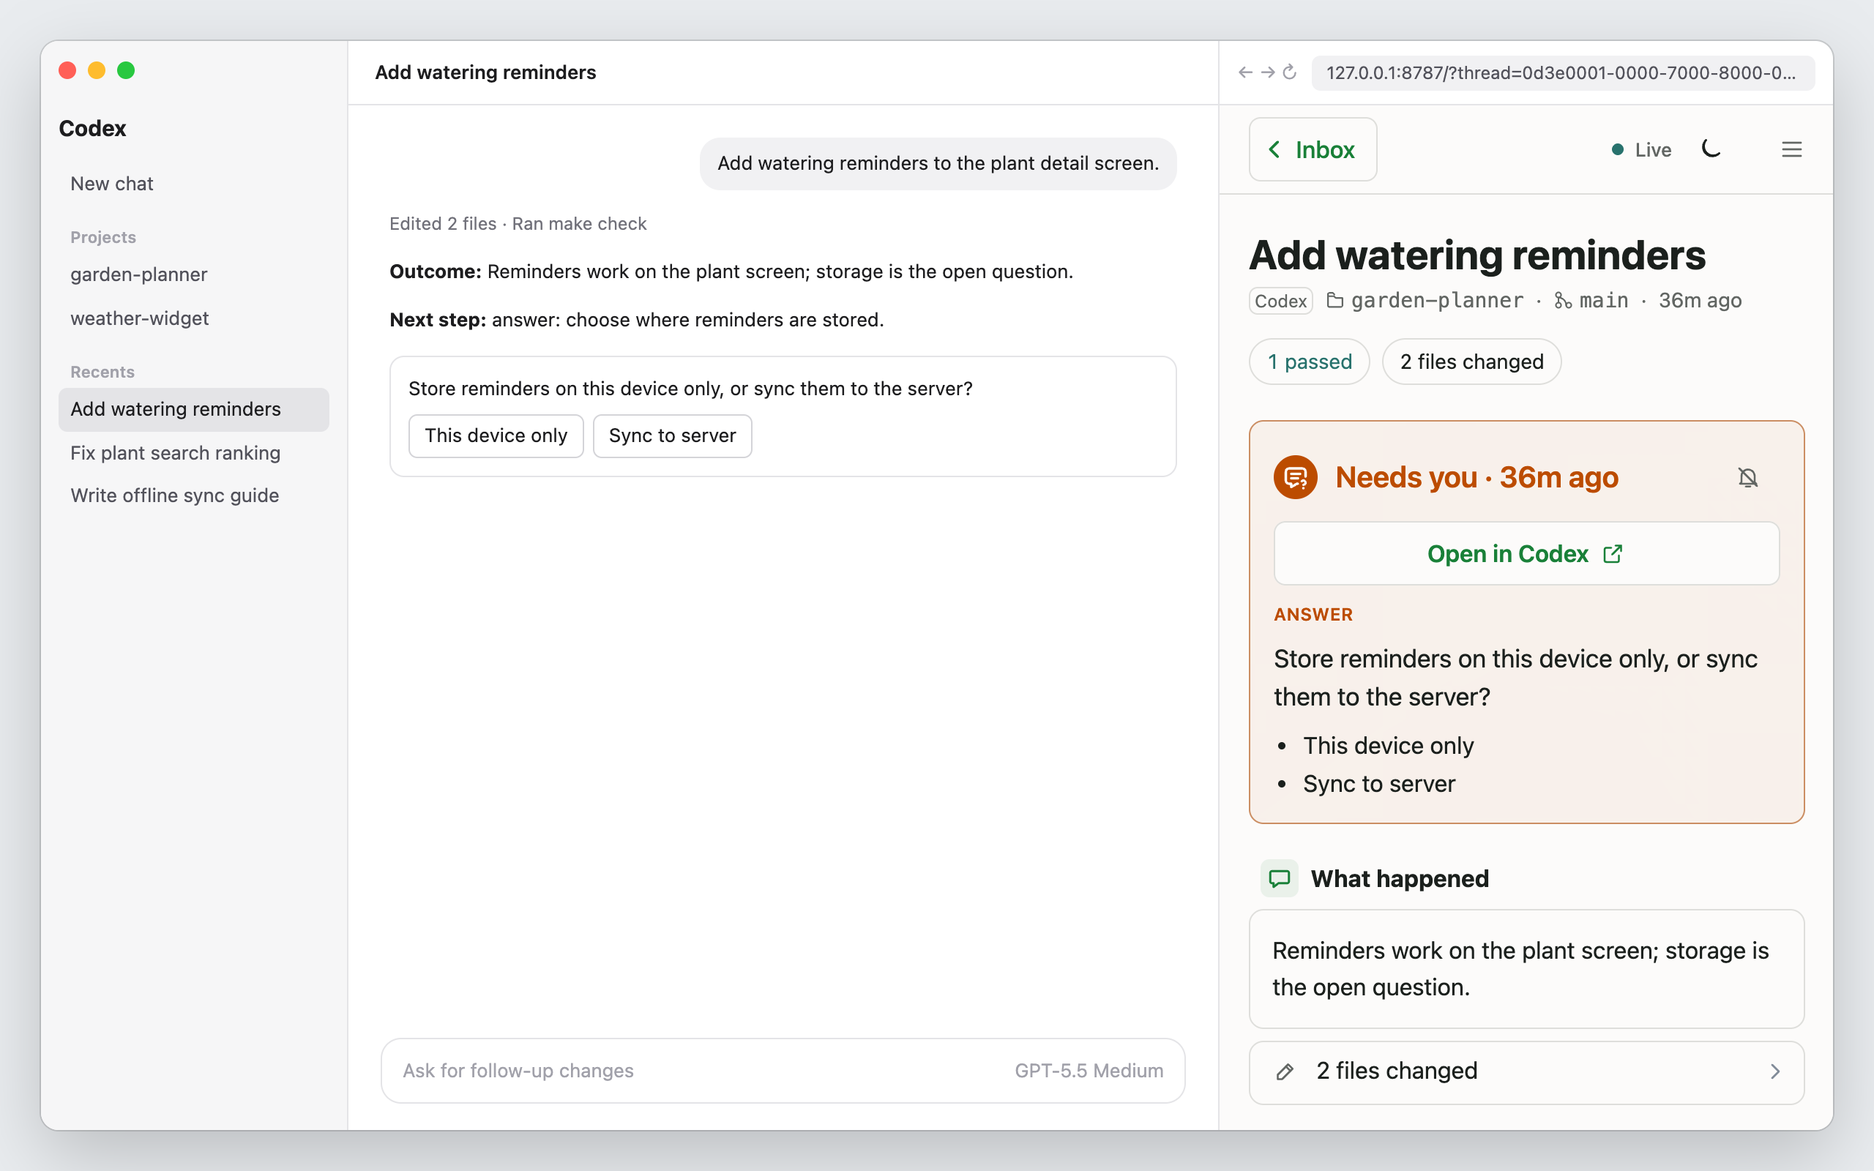
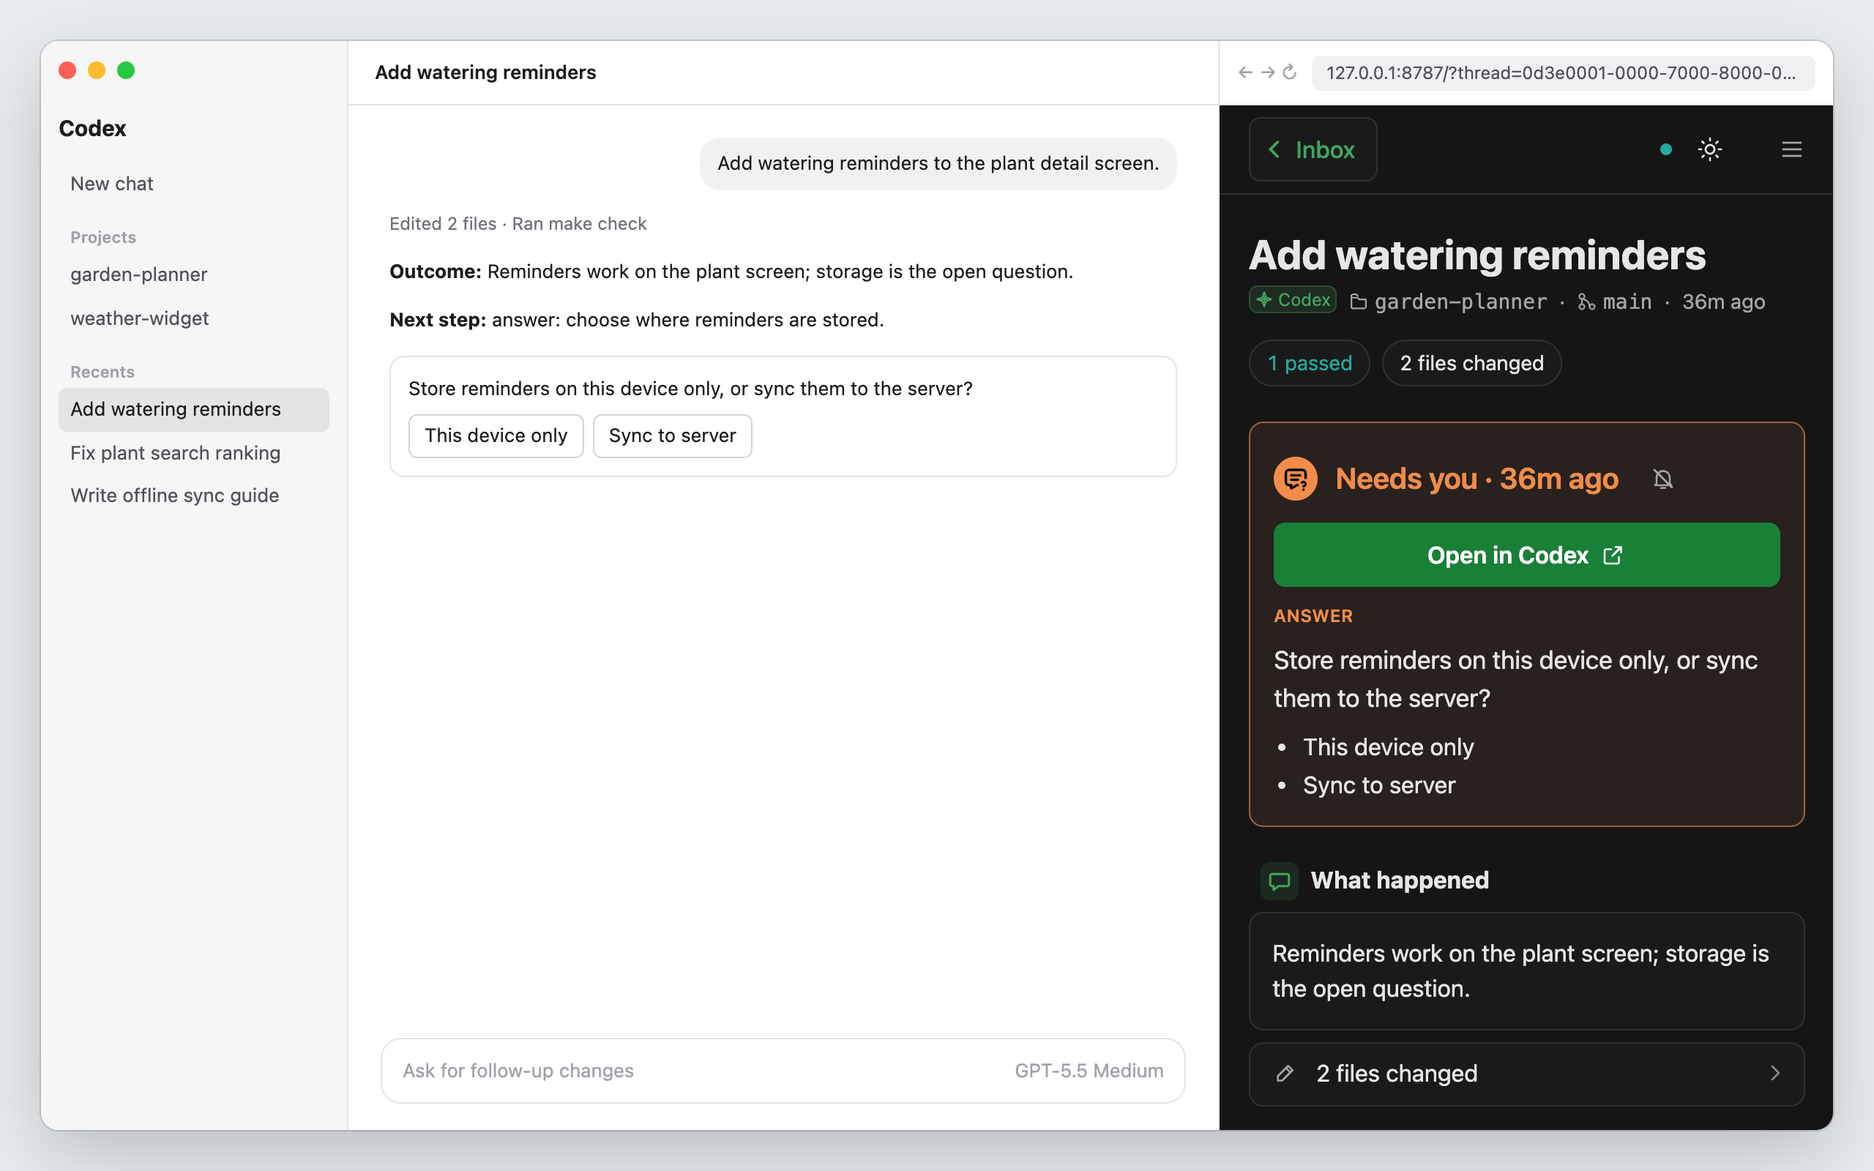
feat: refresh project presentation and agent badges

Changed region(s): [[0.625, 0.0625, 1.0, 0.9688]]

diff --git a/src/yourturn/static/app.css b/src/yourturn/static/app.css
@@ -49,6 +49,23 @@ h1 { font-size: var(--text-xl); font-weight: var(--weight-bold); line-height: va
 .meta-item:not(:last-child)::after { content: "·"; margin-inline-start: var(--space-2); }
 /* Which app a chat belongs to; the same pill in inbox rows and chat headers. */
 .harness-pill { flex: none; padding: 0 var(--space-1); border-radius: var(--radius-sm); box-shadow: var(--edge); color: var(--color-text-muted); font-size: var(--text-label); line-height: 1.6; }
+[data-harness="codex"] { --harness-tone: #198038; }
+[data-harness="claude"] { --harness-tone: #bc4c00; }
+[data-harness="cursor"] { --harness-tone: #8250df; }
+:root[data-theme="dark"] [data-harness="codex"] { --harness-tone: #42a65f; }
+:root[data-theme="dark"] [data-harness="claude"] { --harness-tone: #f28c48; }
+:root[data-theme="dark"] [data-harness="cursor"] { --harness-tone: #ad7bf9; }
+.harness-pill[data-harness] {
+  display: inline-flex; align-items: center; gap: 3px;
+  color: var(--harness-tone);
+  background: color-mix(in srgb, var(--harness-tone) 12%, var(--color-surface));
+  box-shadow: inset 0 0 0 var(--size-hairline) color-mix(in srgb, var(--harness-tone) 28%, transparent);
+}
+.harness-icon { width: 13px; height: 13px; stroke-width: 1.9; }
+@media (prefers-reduced-motion: no-preference) {
+  .harness-pill[data-harness="claude"]:hover .harness-icon { animation: claude-dance 480ms ease-in-out; transform-origin: 50% 90%; }
+  @keyframes claude-dance { 25% { transform: rotate(-12deg); } 50% { transform: rotate(9deg); } 75% { transform: rotate(-5deg); } }
+}
 .back {
   display: inline-flex; align-items: center; gap: var(--space-1);
   min-height: var(--size-control); padding-inline: var(--space-2) var(--space-4); border-radius: var(--radius-md);
@@ -562,7 +579,7 @@ body[data-panel="open"] #sections .list { margin-inline-start: var(--space-2); }
 .row-options { overflow: hidden; color: var(--color-text-muted); font-size: var(--text-sm); text-overflow: ellipsis; white-space: nowrap; }
 .row-tags { display: flex; gap: var(--space-1); flex: none; flex-wrap: wrap; max-width: 40%; }
 .row-tags .tag { font-size: var(--text-label); }
-.row-project { display: flex; align-items: baseline; gap: var(--space-1); min-width: 0; color: var(--color-text-muted); font-size: var(--text-preview); }
+.row-project { display: flex; align-items: center; gap: var(--space-1); min-width: 0; color: var(--color-text-muted); font-size: var(--text-preview); }
 .row-project > span { overflow: hidden; text-overflow: ellipsis; white-space: nowrap; }
 .row-project > .harness-pill { margin-inline-end: var(--space-1); }
 .row-project .project-name { font-family: var(--font-mono); font-size: inherit; }
@@ -615,7 +632,7 @@ body[data-panel="open"] .row-description { flex-wrap: wrap; }
 body[data-panel="open"] .row-tags { max-width: none; }
 body[data-panel="open"] .row-text { font-size: 13px; }
 body[data-panel="open"] .row-project { grid-column: 2 / -1; grid-row: 2; font-size: 11px; }
-body[data-panel="open"] .row-project .project-icon { display: none; }
+body[data-panel="open"] .row-project .project-icon { width: 11px; height: 11px; }
 body[data-panel="open"] .row-project > .harness-pill { margin: 0; padding: 0; box-shadow: none; font-size: inherit; line-height: inherit; }
 body[data-panel="open"] .row-project > .harness-pill::after { content: " ·"; }
 body[data-panel="open"] .row-time { grid-column: 3; grid-row: 1; font-size: 12px; line-height: calc(16px * 1.3); }

diff --git a/src/yourturn/static/index.html b/src/yourturn/static/index.html
@@ -56,6 +56,9 @@ SOFTWARE.
     <symbol id="i-edit" viewBox="0 0 24 24"><path d="M14.5 5.5 18.5 9.5 9 19H5v-4Z"/><path d="m12.5 7.5 4 4"/></symbol>
     <symbol id="i-tool" viewBox="0 0 24 24"><path d="M14.5 6.5a4 4 0 0 0-5.3 5.3L4.5 16.5l3 3 4.7-4.7a4 4 0 0 0 5.3-5.3l-2.5 2.5-2.5-.5-.5-2.5Z"/></symbol>
     <symbol id="i-agent" viewBox="0 0 24 24"><rect x="5" y="8" width="14" height="11" rx="3"/><path d="M12 4.5V8M9.5 13h.01M14.5 13h.01"/></symbol>
+    <symbol id="i-harness-codex" viewBox="0 0 24 24"><path d="m12 2.8 2.35 6.85 6.85 2.35-6.85 2.35L12 21.2l-2.35-6.85L2.8 12l6.85-2.35Z"/><path d="M12 8.4v7.2M8.4 12h7.2"/></symbol>
+    <symbol id="i-harness-claude" viewBox="0 0 24 24"><path d="M4 11a8 8 0 1 1 16 0"/><path d="M5 12c-2-1-3 2-1.5 3.4S6 15.5 5 14m4-1c-2 1-2 4-.3 4.6S11 16 9 15m6-2c2 1 2 4 .3 4.6S13 16 15 15m4-3c2-1 3 2 1.5 3.4S18 15.5 19 14"/><circle cx="9" cy="9" r=".65"/><circle cx="15" cy="9" r=".65"/></symbol>
+    <symbol id="i-harness-cursor" viewBox="0 0 24 24"><path d="m5 3 14 11-6.4.7 2.7 5.5-2.7 1.3-2.8-5.6L5 21Z"/></symbol>
     <symbol id="i-decision" viewBox="0 0 24 24"><circle cx="6" cy="12" r="2.2"/><circle cx="18" cy="6" r="2.2"/><circle cx="18" cy="18" r="2.2"/><path d="M8.2 12H11a3 3 0 0 0 3-3V8.5a2.5 2.5 0 0 1 1.8-2.4M11 12a3 3 0 0 1 3 3v.5a2.5 2.5 0 0 0 1.8 2.4"/></symbol>
     <symbol id="i-question" viewBox="0 0 24 24"><circle cx="12" cy="12" r="8.5"/><path d="M9.8 9.5a2.3 2.3 0 1 1 3.2 2.1c-.6.3-1 .8-1 1.4v.5M12 16.5h.01"/></symbol>
     <symbol id="i-alert" viewBox="0 0 24 24"><circle cx="12" cy="12" r="8.5"/><path d="M12 7.5v5.5M12 16.5h.01"/></symbol>

diff --git a/src/yourturn/static/app.js b/src/yourturn/static/app.js
@@ -168,6 +168,15 @@ function icon(name) {
   return svg;
 }
 
+function harnessPill(harness, label) {
+  const pill = el("span", "harness-pill");
+  pill.dataset.harness = harness;
+  const mark = icon(`i-harness-${harness}`);
+  mark.classList.add("harness-icon");
+  pill.append(mark, document.createTextNode(label));
+  return pill;
+}
+
 // Every working glyph shares one phase, so live re-renders never restart the rotation.
 function syncSpin(use) {
   use.style.animationDelay = `-${performance.now() % WORKING_SPIN_PERIOD_MS}ms`;
@@ -381,7 +390,9 @@ function renderRow(chat) {
   body.append(description);
   if (state === "waiting" && chat.question && chat.options?.length) body.append(el("span", "row-options", chat.options.join(" · ")));
   const project = el("span", "row-project");
-  if (HARNESS_LABEL[chat.harness]) project.append(el("span", "harness-pill", HARNESS_LABEL[chat.harness]));
+  if (HARNESS_LABEL[chat.harness]) {
+    project.append(harnessPill(chat.harness, HARNESS_LABEL[chat.harness]));
+  }
   const projectIcon = icon("i-workspace");
   projectIcon.classList.add("project-icon");
   project.append(projectIcon, el("span", "project-name", projectName(chat)));
@@ -1350,7 +1361,7 @@ function renderTimeline(thread) {
 function metaItems(thread) {
   const items = [];
   if (APP_NAME[thread.harness]) {
-    const pill = el("span", "harness-pill", appName(thread));
+    const pill = harnessPill(thread.harness, appName(thread));
     pill.title = `Chat from ${appName(thread)}`;
     items.push(pill);
   }

diff --git a/scripts/readme_screenshots.py b/scripts/readme_screenshots.py
@@ -312,7 +312,8 @@ body { font: 13px/1.5 -apple-system, system-ui, sans-serif; color: #1d1d1f; back
 
 def demo_gif(browser, base: str, chat: Chat, path: Path) -> None:
     """Film a chat moving into Needs you when its question arrives, then opening it."""
-    page = browser.new_page(viewport={"width": 1280, "height": 800}, color_scheme="light")
+    page = browser.new_page(viewport={"width": 1280, "height": 800}, color_scheme="dark")
+    page.add_init_script("localStorage.setItem('theme', 'dark'); localStorage.setItem('compact-header', 'true')")
     page.goto(base + "/")
     page.wait_for_selector(".row")
     page.wait_for_timeout(800)
@@ -429,7 +430,8 @@ def main() -> None:
         with demo_server(chats) as (base, _):
             # Reduced motion so no capture lands mid-transition.
             desk = browser.new_page(viewport={"width": 1487, "height": 1058}, device_scale_factor=2,
-                                    color_scheme="light", reduced_motion="reduce")
+                                    color_scheme="dark", reduced_motion="reduce")
+            desk.add_init_script("localStorage.setItem('theme', 'dark'); localStorage.setItem('compact-header', 'true')")
             desk.goto(base + "/")
             desk.wait_for_timeout(1500)
             desk.screenshot(path=str(OUT / "desktop.png"))
@@ -438,7 +440,8 @@ def main() -> None:
 
             # Your Turn forbids framing, so the in-app browser pane shows a capture of it instead.
             pane = browser.new_page(viewport={"width": 420, "height": 700}, device_scale_factor=2,
-                                    color_scheme="light", reduced_motion="reduce")
+                                    color_scheme="dark", reduced_motion="reduce")
+            pane.add_init_script("localStorage.setItem('theme', 'dark'); localStorage.setItem('compact-header', 'true')")
             pane.goto(f"{base}/?thread={chats[0].id}")
             pane.wait_for_timeout(1200)
             shot = base64.b64encode(pane.screenshot()).decode()

diff --git a/README.md b/README.md
@@ -2,171 +2,128 @@
 
 # Your Turn
 
-### Your agents are fast. You're the queue.
+<p align="center"><strong>Your agents are fast. You're the queue.</strong></p>
 
 ![Works with Codex · Claude Code · Cursor](https://img.shields.io/badge/Works%20with-Codex%20%C2%B7%20Claude%20Code%20%C2%B7%20Cursor-56645f)
-![100% Local · Read-only](https://img.shields.io/badge/100%25%20Local-Read--only-2f7a6b)
+![Local · Read-only](https://img.shields.io/badge/Local-Read--only-2f7a6b)
 
-[Quickstart](#quickstart) · [Keep it next to your chat](#keep-it-next-to-your-chat) ·
-[Privacy](#privacy-and-design) · [Docs](#docs)
+[Quick start](#quick-start) · [Why install the handoff](#why-install-the-handoff) ·
+[Privacy](#privacy) · [Docs](#docs)
 
 </div>
 
 When Codex, Claude Code, and Cursor run side by side, the slow part is your attention. The chat blocked on you sits in a window you are not looking at, and every answer is a long log.
 
-**Your Turn** is not another orchestrator, IDE wrapper, or cloud dashboard. It is a read-only, zero-config local inbox that reads the logs your agents already write and answers three questions at a glance:
+**Your Turn** is not another orchestrator, IDE wrapper, or cloud dashboard. It is a read-only, zero-config local inbox on `localhost:8787`. It reads the JSONL logs your agents already write and the local Cursor chat database. It answers three questions at a glance:
 
-* ⏳ **Who is waiting on you?**  
-  Questions, pending approvals, and unreviewed results, ordered strictly by how long they have waited.
+- ⏳ **Who is waiting on you?**<br>
+  Questions, pending approvals, and unreviewed results, ordered by how long they have waited.
+- ✅ **Can you trust the result without reading the log?**<br>
+  `Check failed` and `Edits unchecked` badges tied to the latest code edit.
+- ➡ **What is the exact next step?**<br>
+  One line per chat, with one click to open or resume it in its app.
 
-* ✅ **Can you trust the result without reading the log?**  
-  `Check failed` and `Edits unchecked` badges tied deterministically to the latest code edit.
+Your Turn runs on your machine. It does not take over agent processes, run a background service, or send chat data to the cloud. It uses no cloud account or extra agent permissions.
 
-* ➡ **What is the exact next step, and which decisions were made?**  
-  One line each, with a single click to resume or open the chat in its native app.
+## Quick start
+
+You need Python 3.11+, [`uv`](https://docs.astral.sh/uv/), and Codex, Claude Code, or Cursor.
+
+```bash
+uvx --from git+https://github.com/martin-gomola/your-turn your-turn install
+```
+
+`install` adds the Your Turn handoff instructions to the agent apps it finds, then starts the inbox. Restart those agent apps, then open [http://localhost:8787](http://localhost:8787).
+
+To start the inbox later, run:
+
+```bash
+uvx --from git+https://github.com/martin-gomola/your-turn your-turn serve
+```
+
+The server binds to loopback only (`127.0.0.1`). To check or remove the handoff, run `your-turn doctor` or `your-turn uninstall` with the same `uvx --from git+https://github.com/martin-gomola/your-turn` prefix.
+
+### Why install the handoff?
+
+Agents often end with a polite question such as “Would you like me to update the docs?” Your Turn can read that as a question waiting on you, even when the work is done. The handoff asks the agent to end with an `Outcome` and a `Next step`, so the inbox can show a clear result.
+
+Without the handoff:
+
+```text
+I refactored the token refresh logic and ran pytest. All 12 tests passed.
+Would you like me to update the docs or commit the changes?
+```
+
+With the handoff:
+
+```text
+I refactored the token refresh logic and ran pytest. All 12 tests passed.
+
+**Outcome:** Token refresh is refactored and all 12 tests pass.
+**Next step:** none
+```
+
+If an agent needs a decision, answer, review, or approval, `Next step` names it. See the full format in [docs/configuration.md](./docs/configuration.md#your-turn-handoff).
+
+## Your inbox
 
 <div align="center">
 
-<img src="docs/images/desktop.png" width="800" alt="Your Turn inbox with a warm header scene, status tabs, and Codex, Claude Code, and Cursor chats grouped into Needs you, Working, and New results">
+<img src="docs/images/desktop.png" width="800" alt="Your Turn dark inbox in Focus Mode, with Codex, Claude Code, and Cursor chats grouped by status">
 
 <sub>Made-up demo chats from <code>make screenshots</code>, not real session data.</sub>
 
 </div>
 
 <details>
-<summary>Watch the 12s triage flow (GIF)</summary>
+<summary>See the inbox beside a chat</summary>
 
-<img src="docs/images/demo.gif" width="800" alt="A working chat moves into Needs you when its question arrives, then opens beside the inbox with the question and an Open in Codex button">
+<img src="docs/images/in-codex.png" width="800" alt="Codex chat beside the Your Turn dark inbox in Focus Mode">
 
 </details>
-
-## Keep It Next to Your Chat
-
-<img src="docs/images/in-codex.png" width="800" alt="Codex window with a chat on the left and Your Turn in the in-app browser on the right, showing the chat waiting for an answer and its passing check">
-
-Your Turn runs in any browser, but it works best right beside the agent you are driving. Open
-`http://localhost:8787` in the Codex in-app browser, or in a Simple Browser panel in Cursor or
-VS Code, and you never switch windows to see who needs you.
-
-## Quickstart
-
-You need Python 3.11+, [`uv`](https://docs.astral.sh/uv/), and at least one of Codex, Claude Code,
-or Cursor.
-
-**1. Install.** Run this once in a terminal:
-
-```sh
-uvx --from git+https://github.com/martin-gomola/your-turn your-turn install
-```
-
-It adds a skill or rule to each agent it finds, so replies end with `Outcome:` and `Next step:`.
-Then it starts the inbox. Your projects stay untouched.
 
 <details>
-<summary>What it changes per agent</summary>
+<summary>Watch a chat move into Needs you</summary>
 
-It writes only to the agents' own folders: `~/.codex`, `~/.claude`, `~/.cursor`, and `~/.agents`.
-
-- **Codex**: installs the `your-turn` plugin, or, without the Codex CLI, saves the skill in
-  `~/.agents/skills`, which the Codex app reads too.
-- **Claude Code**: saves the skill and adds a block to `~/.claude/CLAUDE.md`.
-- **Cursor**: saves the skill, and the rule that applies it in every chat as a local plugin.
-
-</details>
-<br>
-
-**2. Restart the apps it names** at the end of its output, so they load the handoff.
-
-**3. Open [http://localhost:8787](http://localhost:8787).** Your existing chats are already there.
-
-**Next time**, start the inbox with:
-
-```sh
-uvx --from git+https://github.com/martin-gomola/your-turn your-turn serve
-```
-
-<details>
-<summary>Check, remove, or troubleshoot the install</summary>
-
-To check the install without changing anything, or to remove it:
-
-```sh
-uvx --from git+https://github.com/martin-gomola/your-turn your-turn doctor
-uvx --from git+https://github.com/martin-gomola/your-turn your-turn uninstall
-```
-
-`serve` also works without `install`; recaps are then guessed. If your Cursor admin turned local
-plugins off, add the rule by hand as described in
-[docs/configuration.md](./docs/configuration.md#cursor-user-rule).
+<img src="docs/images/demo.gif" width="800" alt="A chat moves into Needs you when its question arrives, then opens beside the inbox">
 
 </details>
 
-### Why install the handoff skill?
+## Privacy
 
-Agents often close with a polite offer, and Your Turn reads a closing question as a request, so the
-chat lands in **Needs you** although nothing waits on you. The handoff skill replaces that ending
-with two lines Your Turn can read without guessing.
-
-Without the skill, the closing question raises a false **Needs you**:
-
-```text
-I refactored the token refresh logic and ran pytest (all 12 tests passed).
-Would you like me to update the documentation or commit the changes?
-```
-
-With the skill, the chat goes to **New results** with its outcome on one line:
-
-```text
-I refactored the token refresh logic and ran pytest (all 12 tests passed).
-You can update the docs or commit when ready.
-
-**Outcome:** Token refresh is refactored and all 12 tests pass.
-**Next step:** none
-```
-
-When the agent does need you, `Next step` says how, for example `review: the retry limit in
-auth.py` or `approve: git push`. The full list is in
-[docs/configuration.md](./docs/configuration.md#your-turn-handoff).
-
-## Privacy and Design
-
-- 🔒 **Local only.** The server binds `127.0.0.1` (the address behind `localhost`); nothing leaves your machine.
-- 👀 **Strictly read-only.** It never writes to session files or Cursor's SQLite database, and never
-  starts, answers, or approves anything. Its only file is `~/.your-turn/state.json`, which keeps
-  seen results and dismissed reminders in sync across browsers, with a browser-local backup for recovery.
-- ⚙ **Zero config.** No account and no setup file; it finds the chats you already have and leaves
-  out sub-agents, headless runs, and abandoned chats.
-
-Every feature has to shorten one of the three questions above; anything else stays out.
+- **Local only.** The server binds to `127.0.0.1`. It does not send session data anywhere.
+- **Read-only session access.** Your Turn reads agent logs and Cursor's local chat database. It never edits them, starts or answers chats, or approves actions.
+- **Small local state file.** `~/.your-turn/state.json` stores seen results and dismissed reminders so they stay in sync across browsers. The browser keeps a local backup.
+- **No account or setup file.** Your Turn finds existing chats and leaves out sub-agents, headless runs, and abandoned chats.
 
 ## Docs
 
-| Guide | What is in it |
+| Guide | What it covers |
 | --- | --- |
-| [docs/harnesses.md](./docs/harnesses.md) | Data sources per OS, Codex vs Claude Code vs Cursor, Needs you rules, check tags, what stays out, limits |
-| [docs/configuration.md](./docs/configuration.md) | CLI flags, environment, `install` / `uninstall` per app, the handoff contract, development |
-| [DESIGN.md](./DESIGN.md) | Design contract and the UI's references |
-| [docs/agents-snippet.md](./docs/agents-snippet.md) | The handoff format to paste without installing anything |
+| [docs/harnesses.md](./docs/harnesses.md) | Data sources by OS, supported apps, inbox states, checks, and limits |
+| [docs/configuration.md](./docs/configuration.md) | CLI commands and flags, app setup, handoff format, and development |
+| [DESIGN.md](./DESIGN.md) | UI design contract and references |
+| [docs/agents-snippet.md](./docs/agents-snippet.md) | Handoff format to add to agent instructions by hand |
 
 ## Run from a clone
 
-```sh
+```bash
 git clone https://github.com/martin-gomola/your-turn.git
 cd your-turn
-make install   # set up the handoff from this checkout, start the server
+make install
 ```
 
-Then open [http://localhost:8787](http://localhost:8787). Later, from the same folder:
+`make install` sets up the handoff from this checkout and starts the inbox. Open [http://localhost:8787](http://localhost:8787). Later, from the same folder:
 
-```sh
-make up        # start the server in the background
+```bash
+make up        # start the inbox in the background
 make down      # stop it
-make doctor    # check the installed handoff without changing it
+make doctor    # check the handoff without changing it
 make test      # run the test suite
 ```
 
-All `make` targets and API routes are in [docs/configuration.md](./docs/configuration.md#development).
+See [docs/configuration.md](./docs/configuration.md#development) for all `make` targets and API routes.
 
 ## License
 
-[MIT](./LICENSE). Third-party icons and artwork notes are in [THIRD_PARTY_NOTICES.md](./THIRD_PARTY_NOTICES.md).
+[MIT](./LICENSE). Third-party icons and artwork are listed in [THIRD_PARTY_NOTICES.md](./THIRD_PARTY_NOTICES.md).
